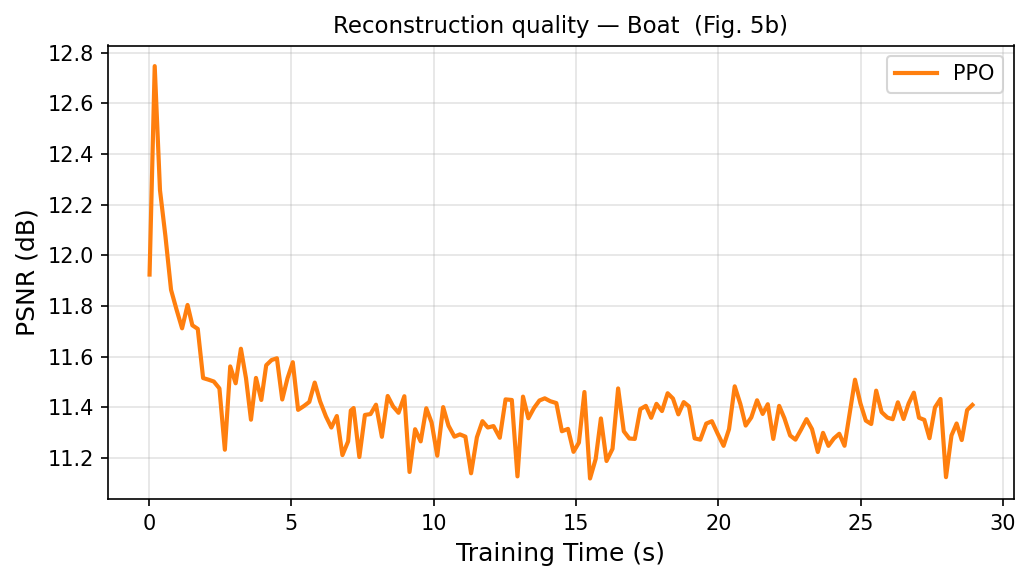
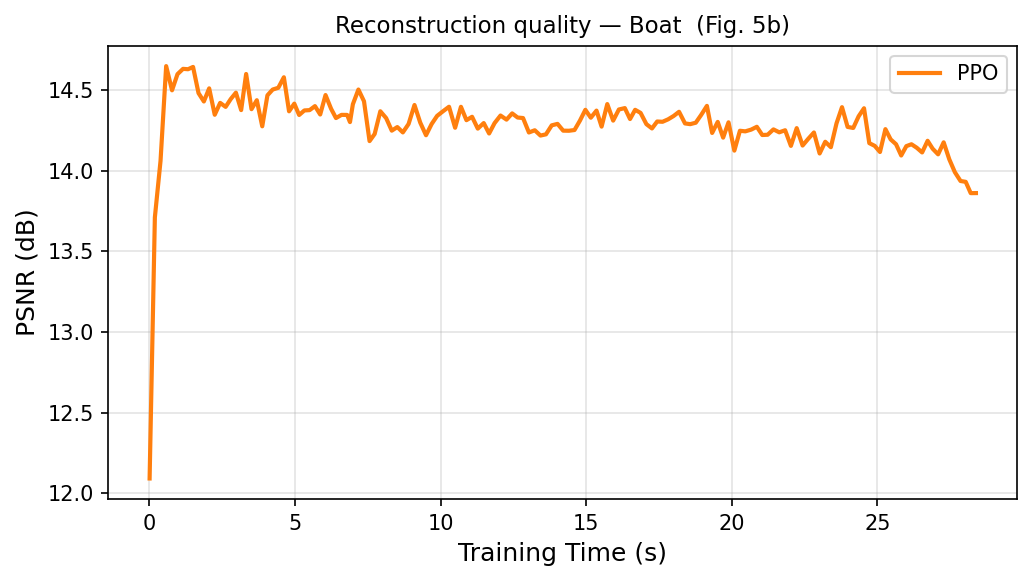
first commit

diff --git a/train_holographic_ppo.py b/train_holographic_ppo.py
@@ -329,7 +329,7 @@ def parse_args():
     p.add_argument('--lr',             type=float, default=0.3)
     p.add_argument('--epsilon',        type=float, default=0.02,
                    help='PPO 截断参数 ε')
-    p.add_argument('--pixel_grouping', type=int,   default=1,
+    p.add_argument('--pixel_grouping', type=int,   default=4,
                    help='像素分组大小 g；g=1 → DOF=256')
     p.add_argument('--eval_every',     type=int,   default=20)
     p.add_argument('--save_dir',       type=str,   default='./results')
